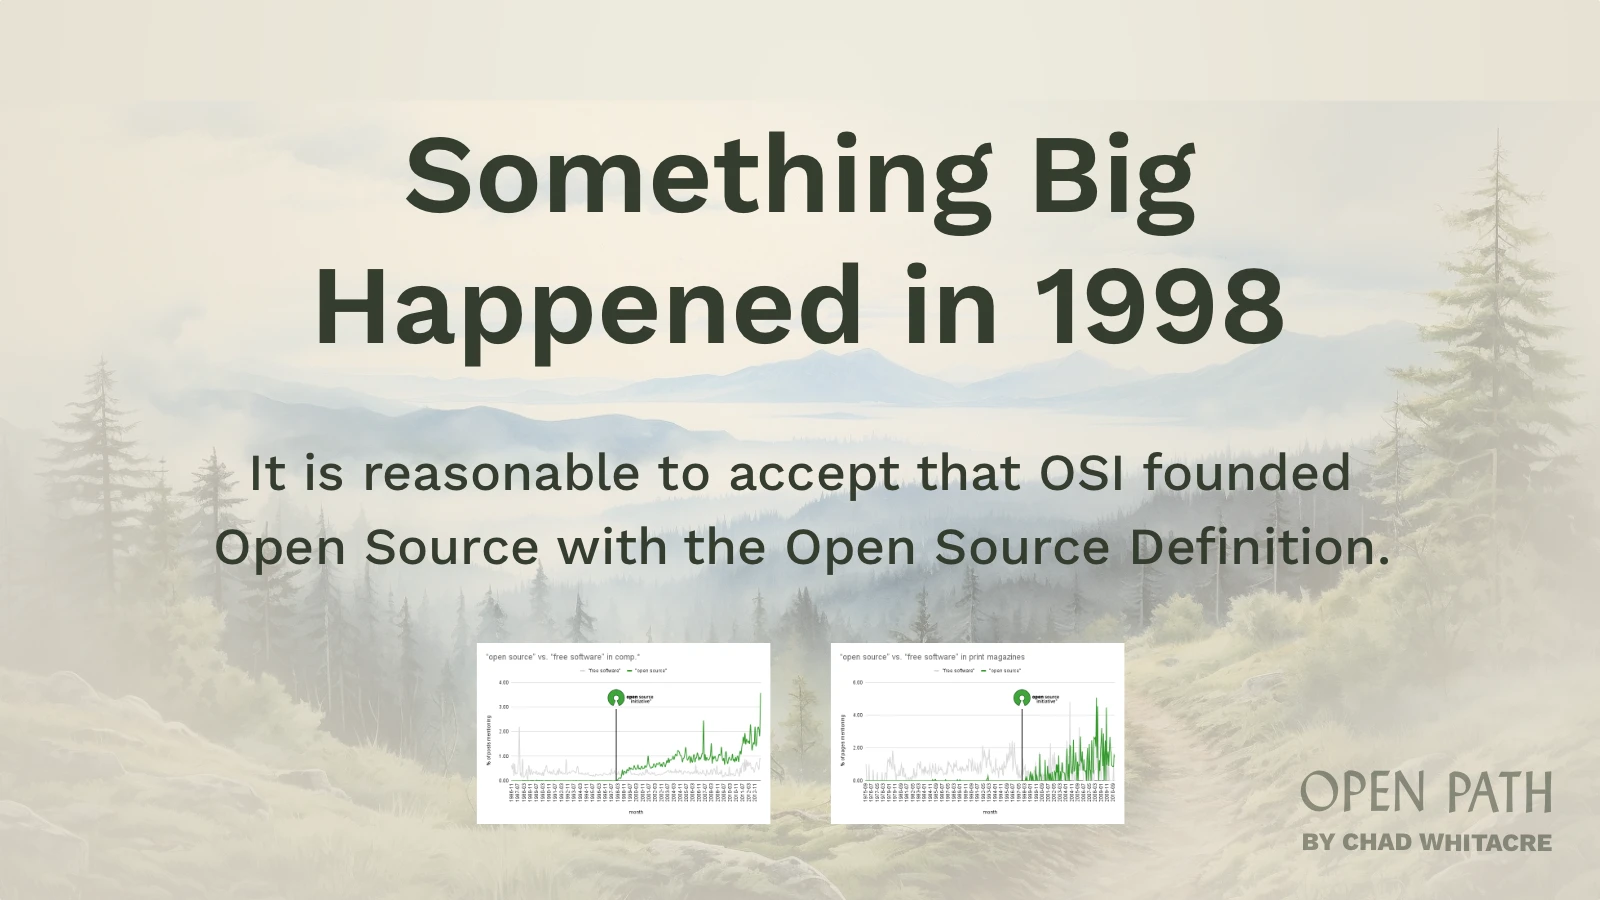
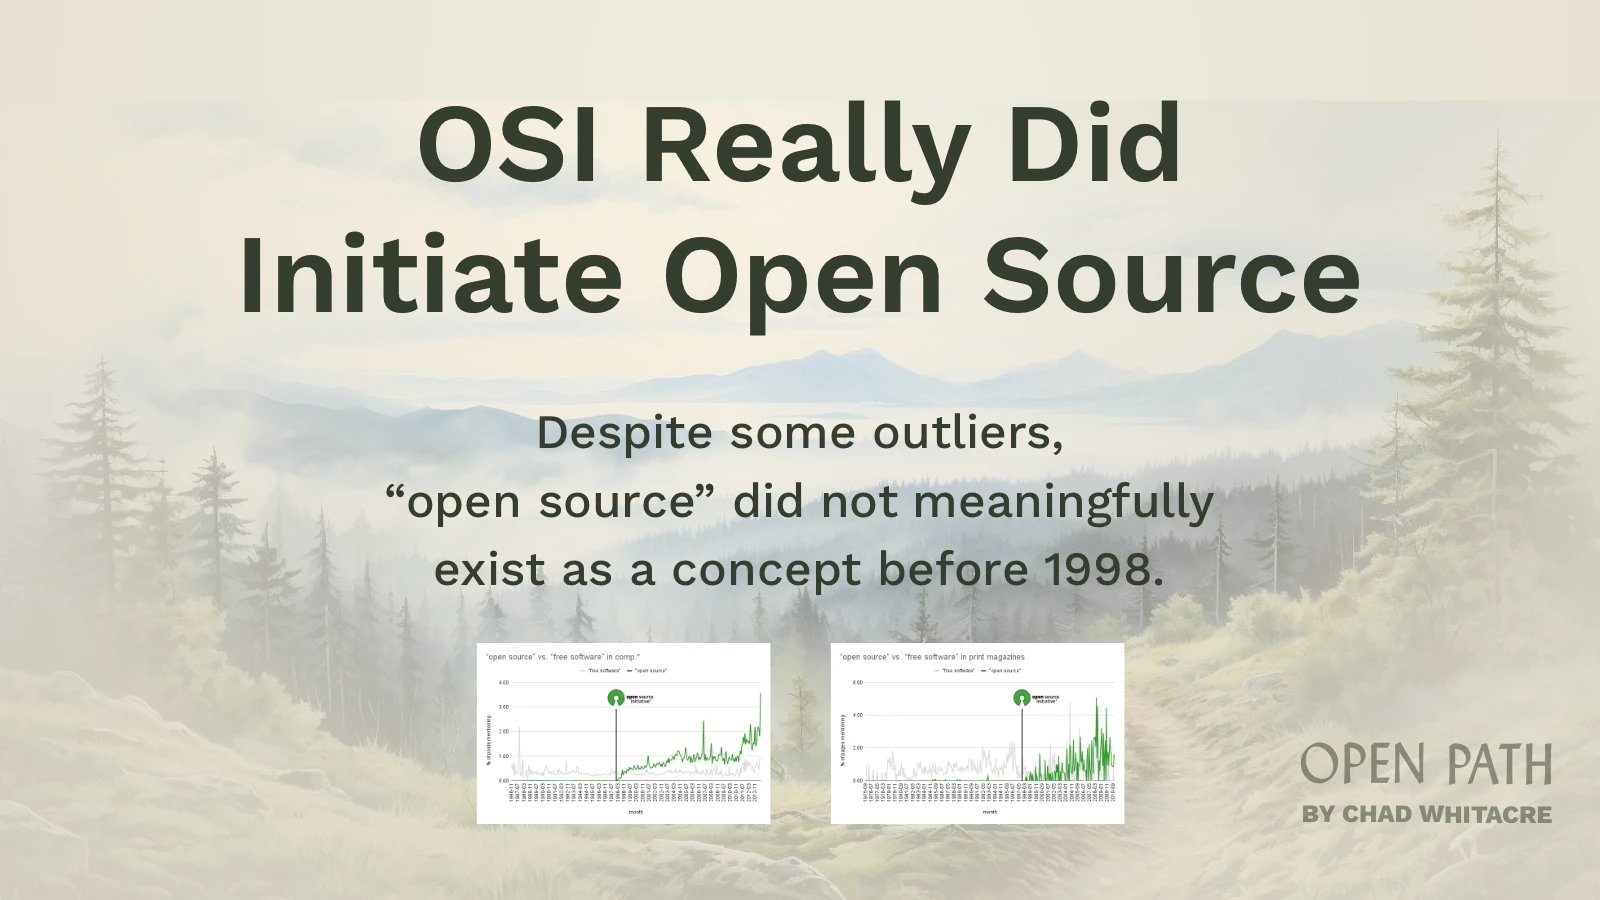
Social

Changed region(s): [[0.125, 0.0933, 0.875, 0.4044], [0.125, 0.4667, 0.875, 0.6533], [0.8125, 0.8089, 0.9688, 0.9644]]

diff --git a/_posts/2025-12-19-osi-really-did-initiate-open-source.md b/_posts/2025-12-19-osi-really-did-initiate-open-source.md
@@ -1,6 +1,6 @@
 ---
 title: OSI Really Did Initiate Open Source
-excerpt: Despite some outliers, "open source" did not meaningfully exist as a concept before 1998.
+excerpt: Despite some outliers, “open source” did not meaningfully exist as a concept before 1998.
 homepage_rank: 1
 redirect_from: /2025/something-big-happened-in-1998/
 ---
